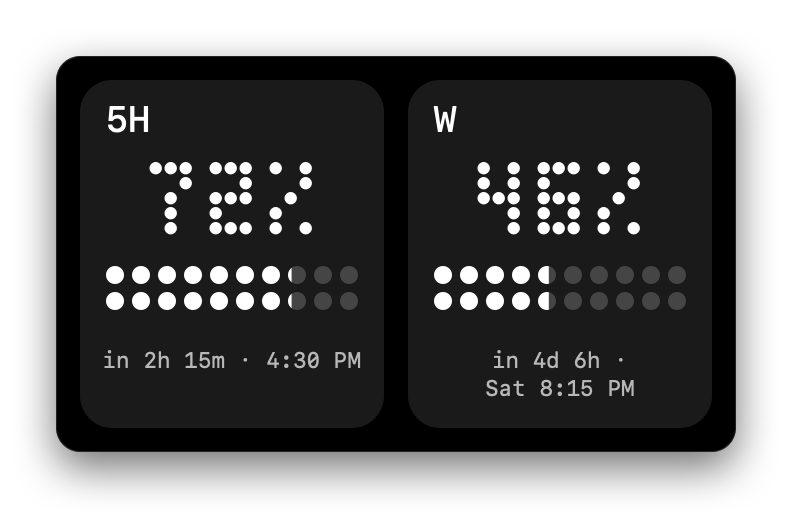
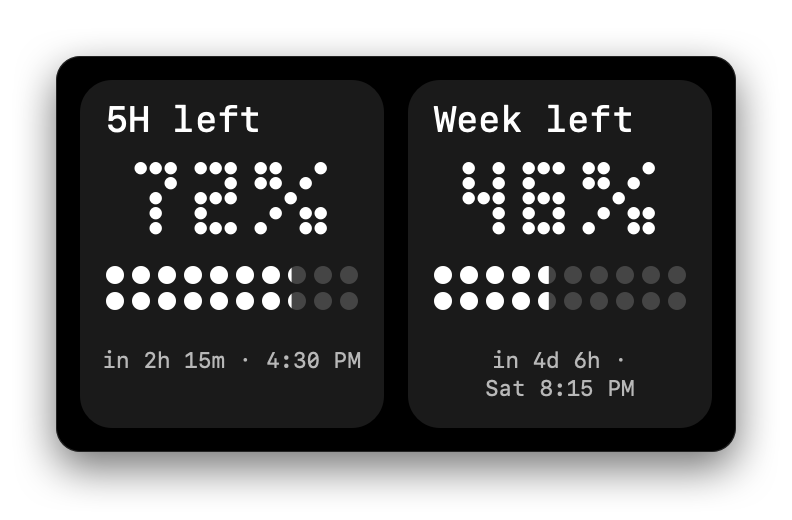
Release Limitwick 2.1.7: "left" labels, Capsules date plates, Dot Matrix percent sign
Classic, Industrial, Dot Matrix, Paper, Capsules and Terminal now say the number is what is left; periods are named 5H and Week. Capsules draw the date and percentage on plates in the track color so no letter changes color mid-glyph. Dot Matrix has its own percent sign. Industrial's weekly fill reaches 3:1 against the track in the light theme.

diff --git a/Sources/Themes.swift b/Sources/Themes.swift
@@ -81,6 +81,26 @@ class ThemeView: NSView {
     func percent(_ value: Double?) -> String { value.map { "\(Int($0.rounded()))%" } ?? "—" }
     func fraction(_ value: Double?) -> CGFloat { CGFloat(max(0, min(1, (value ?? 0) / 100))) }
     func background() { fill(bounds, palette.background) }
+    func measure(_ value: String, width: CGFloat, font: NSFont, wrap: Bool = false) -> NSSize {
+        let style = NSMutableParagraphStyle(); style.lineBreakMode = wrap ? .byWordWrapping : .byTruncatingTail
+        let size = (value as NSString).boundingRect(with: NSSize(width: width, height: 10000), options: [.usesLineFragmentOrigin, .usesFontLeading], attributes: [.font: font, .paragraphStyle: style]).size
+        return NSSize(width: ceil(size.width), height: ceil(size.height))
+    }
+    // Capsules draw text over a fill that can end anywhere. A plate in the track color keeps every
+    // glyph on one background, so text never changes color in the middle of a letter.
+    func plate(_ box: NSRect, clip: NSRect, clipRadius: CGFloat, radius: CGFloat = 8) {
+        NSGraphicsContext.saveGraphicsState()
+        NSBezierPath(roundedRect: clip, xRadius: clipRadius, yRadius: clipRadius).addClip()
+        fill(box, palette.track, radius: radius)
+        NSGraphicsContext.restoreGraphicsState()
+    }
+    // Quota percentage with a smaller "left" so the number reads as what remains.
+    func percentLeft(_ value: Double?, _ rect: NSRect, size: CGFloat, weight: NSFont.Weight, color: NSColor, secondary: NSColor) {
+        let style = NSMutableParagraphStyle(); style.alignment = .center
+        let result = NSMutableAttributedString(string: percent(value), attributes: [.font: NSFont.systemFont(ofSize: size, weight: weight), .foregroundColor: color, .paragraphStyle: style])
+        if value != nil { result.append(NSAttributedString(string: " left", attributes: [.font: NSFont.systemFont(ofSize: (size / 2).rounded(), weight: .regular), .foregroundColor: secondary, .paragraphStyle: style])) }
+        result.draw(in: rect)
+    }
     func resetHeight(_ value: String, width: CGFloat, font: NSFont) -> CGFloat {
         let style = NSMutableParagraphStyle(); style.lineBreakMode = .byWordWrapping
         return ceil((value as NSString).boundingRect(with: NSSize(width: width, height: 10000), options: [.usesLineFragmentOrigin, .usesFontLeading], attributes: [.font: font, .paragraphStyle: style]).height) + 2
@@ -104,12 +124,12 @@ class ThemeView: NSView {
 final class IndustrialThemeView: ThemeView {
     var extraReset: CGFloat { max(0, max(resetHeight("RST  " + data.fiveReset, width: 136, font: .monospacedSystemFont(ofSize: 11, weight: .regular)), resetHeight("RST  " + data.weekReset, width: 136, font: .monospacedSystemFont(ofSize: 11, weight: .regular))) - 28) }
     override var preferredContentHeight: CGFloat { 184 + extraReset }
-    override var palette: ThemePalette { dark ? ThemePalette(background: .init(white: 0.08, alpha: 1), surface: .init(white: 0.10, alpha: 1), text: .init(white: 0.92, alpha: 1), secondary: .init(white: 0.72, alpha: 1), track: .init(white: 0.25, alpha: 1), accent: .init(white: 0.72, alpha: 1), second: .init(calibratedRed: 0.47, green: 0.64, blue: 0.82, alpha: 1)) : ThemePalette(background: .init(calibratedRed: 0.93, green: 0.93, blue: 0.90, alpha: 1), surface: .init(white: 0.95, alpha: 1), text: .init(white: 0.13, alpha: 1), secondary: .init(white: 0.32, alpha: 1), track: .init(white: 0.72, alpha: 1), accent: .init(white: 0.25, alpha: 1), second: .init(calibratedRed: 0.20, green: 0.38, blue: 0.56, alpha: 1)) }
+    override var palette: ThemePalette { dark ? ThemePalette(background: .init(white: 0.08, alpha: 1), surface: .init(white: 0.10, alpha: 1), text: .init(white: 0.92, alpha: 1), secondary: .init(white: 0.72, alpha: 1), track: .init(white: 0.25, alpha: 1), accent: .init(white: 0.72, alpha: 1), second: .init(calibratedRed: 0.47, green: 0.64, blue: 0.82, alpha: 1)) : ThemePalette(background: .init(calibratedRed: 0.93, green: 0.93, blue: 0.90, alpha: 1), surface: .init(white: 0.95, alpha: 1), text: .init(white: 0.13, alpha: 1), secondary: .init(white: 0.32, alpha: 1), track: .init(white: 0.72, alpha: 1), accent: .init(white: 0.25, alpha: 1), second: .init(calibratedRed: 0.14, green: 0.29, blue: 0.45, alpha: 1)) }
     override func draw(_ dirtyRect: NSRect) {
         background(); let p = palette; let mono = NSFont.monospacedSystemFont(ofSize: 10, weight: .regular)
         for (i, value, reset) in [(0, data.fiveHour, data.fiveReset), (1, data.weekly, data.weekReset)] {
             let x = CGFloat(12 + i * 164); let w: CGFloat = 152
-            text(i == 0 ? "5H / LIMIT" : "WEEK / LIMIT", NSRect(x: x+8, y: 17, width: w-16, height: 16), size: 10, color: p.text, font: mono)
+            text(i == 0 ? "5H / LEFT" : "WEEK / LEFT", NSRect(x: x+8, y: 17, width: w-16, height: 16), size: 10, color: p.text, font: mono)
             text(percent(value), NSRect(x: x+6, y: 44, width: w-12, height: 57), size: 44, color: p.text, font: .systemFont(ofSize: 44, weight: .regular))
             for n in 0...10 { let xx = x+8+CGFloat(n)*13.5; line(NSPoint(x: xx, y: 110), NSPoint(x: xx, y: n % 5 == 0 ? 119 : 116), p.secondary) }
             bar(NSRect(x: x+8, y: 123, width: 135, height: 13), value: value, color: i == 0 ? p.accent : p.second)
@@ -124,7 +144,9 @@ final class DotThemeView: ThemeView {
     override var preferredContentHeight: CGFloat { 186 + extraReset }
     override var palette: ThemePalette { dark ? ThemePalette(background: .black, surface: .init(white: 0.10, alpha: 1), text: .white, secondary: .init(white: 0.72, alpha: 1), track: .init(white: 0.27, alpha: 1), accent: .white, second: .white) : ThemePalette(background: .init(white: 0.92, alpha: 1), surface: .white, text: .black, secondary: .init(white: 0.34, alpha: 1), track: .init(white: 0.81, alpha: 1), accent: .black, second: .black) }
     // Three-by-five dot glyphs are rendered locally; no external font is needed.
-    let glyphs: [Character: [String]] = ["0":["111","101","101","101","111"],"1":["010","110","010","010","111"],"2":["111","001","111","100","111"],"3":["111","001","111","001","111"],"4":["101","101","111","001","001"],"5":["111","100","111","001","111"],"6":["111","100","111","101","111"],"7":["111","001","010","010","010"],"8":["111","101","111","101","111"],"9":["111","101","111","001","111"],"%":["101","001","010","100","101"],"—":["000","000","111","000","000"]]
+    let glyphs: [Character: [String]] = ["0":["111","101","101","101","111"],"1":["010","110","010","010","111"],"2":["111","001","111","100","111"],"3":["111","001","111","001","111"],"4":["101","101","111","001","001"],"5":["111","100","111","001","111"],"6":["111","100","111","101","111"],"7":["111","001","010","010","010"],"8":["111","101","111","101","111"],"9":["111","101","111","001","111"],"%":["11001","11010","00100","01011","10011"],"—":["000","000","111","000","000"]]
+    // Glyphs differ in width ("%" is five columns: two dots, a diagonal, two dots), so advance per glyph.
+    func dotsWidth(_ value: String, step: CGFloat) -> CGFloat { value.reduce(0) { $0 + CGFloat((glyphs[$1]?[0].count ?? 0) + 1) } * step - step }
     override func draw(_ dirtyRect: NSRect) {
         background(); let p = palette
         NSGraphicsContext.saveGraphicsState()
@@ -132,10 +154,10 @@ final class DotThemeView: ThemeView {
         defer { NSGraphicsContext.restoreGraphicsState() }
         for (i, value, reset) in [(0, data.fiveHour, data.fiveReset), (1, data.weekly, data.weekReset)] {
             let x = CGFloat(12 + i*164); fill(NSRect(x: x, y: 10, width: 152, height: 174 + extraReset), p.surface, radius: 16)
-            text(i == 0 ? "5H" : "W", NSRect(x: x+13, y: 19, width: 120, height: 23), size: 18, color: p.text, font: .monospacedSystemFont(ofSize: 18, weight: .medium))
-            let s = percent(value); let step: CGFloat = 7.5; let width = CGFloat(s.count) * step * 4 - step
-            var gx = x + (152-width)/2
-            for character in s { if let rows = glyphs[character] { for (row, bits) in rows.enumerated() { for (col, bit) in bits.enumerated() where bit == "1" { fill(NSRect(x: gx+CGFloat(col)*step, y: 51+CGFloat(row)*step, width: 6.2, height: 6.2), p.text, radius: 3.1) } } }; gx += step*4 }
+            text(i == 0 ? "5H left" : "Week left", NSRect(x: x+13, y: 19, width: 126, height: 23), size: 18, color: p.text, font: .monospacedSystemFont(ofSize: 18, weight: .medium))
+            let s = percent(value); let step: CGFloat = 7.5
+            var gx = x + (152-dotsWidth(s, step: step))/2
+            for character in s { if let rows = glyphs[character] { for (row, bits) in rows.enumerated() { for (col, bit) in bits.enumerated() where bit == "1" { fill(NSRect(x: gx+CGFloat(col)*step, y: 51+CGFloat(row)*step, width: 6.2, height: 6.2), p.text, radius: 3.1) } }; gx += CGFloat(rows[0].count + 1)*step } }
             for column in 0..<10 {
                 for row in 0..<2 {
                     let dot = NSRect(x: x+13+CGFloat(column)*13, y: 103+CGFloat(row)*13, width: 9, height: 9)
@@ -163,7 +185,7 @@ final class PaperThemeView: ThemeView {
         background(); let p = palette
         for (i, value, reset) in [(0, data.fiveHour, data.fiveReset), (1, data.weekly, data.weekReset)] {
             let y = CGFloat(14 + i*86) + (i == 1 ? extra(data.fiveReset) : 0)
-            text(i == 0 ? "5-Hour Quota" : "Weekly Quota", NSRect(x: 16, y: y+6, width: 190, height: 22), size: 15, color: p.text, font: .monospacedSystemFont(ofSize: 15, weight: .regular))
+            text(i == 0 ? "5H quota left" : "Week quota left", NSRect(x: 16, y: y+6, width: 190, height: 22), size: 15, color: p.text, font: .monospacedSystemFont(ofSize: 15, weight: .regular))
             text(percent(value), NSRect(x: 208, y: y-2, width: 116, height: 34), size: 28, color: p.text, font: NSFont(name: "Times New Roman", size: 28) ?? .systemFont(ofSize: 28), alignment: .right)
             bar(NSRect(x: 16, y: y+42, width: 308, height: 3), value: value, color: p.accent, radius: 1.5)
             text(reset, NSRect(x: 16, y: y+52, width: 308, height: 20 + extra(reset)), size: 11, color: p.secondary, wrap: true)
@@ -176,7 +198,7 @@ final class CapsuleThemeView: ThemeView {
     func extra(_ reset: String) -> CGFloat { max(0, resetHeight(reset, width: 125, font: .systemFont(ofSize: 11)) - 48) }
     override var preferredContentHeight: CGFloat { 167 + extra(data.fiveReset) + extra(data.weekReset) }
     override var outerInset: CGFloat { 14 }
-    // A deeper red keeps white dates on the warning fill above 4.5:1.
+    // Deeper than systemRed, so the large warning fill stays calm next to the light track.
     override var warningColor: NSColor { .init(calibratedRed: 0.76, green: 0.15, blue: 0.13, alpha: 1) }
     override var palette: ThemePalette { dark ? ThemePalette(background: .init(calibratedRed: 0.07, green: 0.09, blue: 0.11, alpha: 1), surface: .init(white: 0.1, alpha: 1), text: .white, secondary: .init(white: 0.80, alpha: 1), track: .init(calibratedRed: 0.13, green: 0.16, blue: 0.21, alpha: 1), accent: .init(calibratedRed: 0.25, green: 0.34, blue: 0.49, alpha: 1), second: .init(calibratedRed: 0.19, green: 0.46, blue: 0.44, alpha: 1)) : ThemePalette(background: .init(calibratedRed: 0.94, green: 0.95, blue: 0.97, alpha: 1), surface: .white, text: .init(calibratedRed: 0.13, green: 0.17, blue: 0.23, alpha: 1), secondary: .init(white: 0.31, alpha: 1), track: .init(calibratedRed: 0.85, green: 0.87, blue: 0.90, alpha: 1), accent: .init(calibratedRed: 0.31, green: 0.37, blue: 0.48, alpha: 1), second: .init(calibratedRed: 0.16, green: 0.42, blue: 0.40, alpha: 1)) }
     override func draw(_ dirtyRect: NSRect) {
@@ -194,24 +216,24 @@ final class CapsuleThemeView: ThemeView {
                 NSGraphicsContext.restoreGraphicsState()
             }
             fill(NSRect(x: 21, y: y+(pillHeight-54)/2, width: 54, height: 54), dark ? .init(white: 0.08, alpha: 1) : .white, radius: 27)
-            let symbol = i == 0 ? "5h" : "W"
+            let symbol = i == 0 ? "5H" : "W"
             let symbolFont = NSFont.systemFont(ofSize: 23, weight: .bold)
             let symbolHeight = (symbol as NSString).size(withAttributes: [.font: symbolFont]).height
             text(symbol, NSRect(x: 21, y: y+(pillHeight-symbolHeight)/2, width: 54, height: symbolHeight+1), size: 23, color: p.text, font: symbolFont, alignment: .center)
+            // The date and the percentage sit on plates in the track color, so the fill never runs under a glyph.
             let dateFont = NSFont.systemFont(ofSize: 11)
-            let paragraph = NSMutableParagraphStyle(); paragraph.lineBreakMode = .byWordWrapping
-            let dateHeight = ceil((reset as NSString).boundingRect(with: NSSize(width: 125, height: 10000), options: [.usesLineFragmentOrigin, .usesFontLeading], attributes: [.font: dateFont, .paragraphStyle: paragraph]).height)
-            let dateRect = NSRect(x: 83, y: y+(pillHeight-dateHeight)/2, width: 125, height: dateHeight+1)
+            let dateSize = measure(reset, width: 125, font: dateFont, wrap: true)
+            let dateRect = NSRect(x: 87, y: y+(pillHeight-dateSize.height)/2, width: 125, height: dateSize.height+1)
+            plate(NSRect(x: 81, y: dateRect.minY-3, width: dateSize.width+12, height: dateSize.height+6), clip: rect, clipRadius: 34)
             text(reset, dateRect, size: 11, color: p.text, font: dateFont, wrap: true)
-            if !dark, !data.stale, value != nil, fraction(value) > 0 {
-                // Redraw only the part over the filled capsule in a light color.
-                NSGraphicsContext.saveGraphicsState()
-                NSBezierPath(roundedRect: rect, xRadius: 34, yRadius: 34).addClip()
-                NSBezierPath(rect: progress).addClip()
-                text(reset, dateRect, size: 11, color: .white, font: dateFont, wrap: true)
-                NSGraphicsContext.restoreGraphicsState()
-            }
-            text(percent(value), NSRect(x: 211, y: y+(pillHeight-36)/2, width: 103, height: 36), size: 23, color: p.text, font: .systemFont(ofSize: 23, weight: .bold), alignment: .right)
+            let percentFont = NSFont.systemFont(ofSize: 23, weight: .bold), leftFont = NSFont.systemFont(ofSize: 11)
+            let percentSize = measure(percent(value), width: 100, font: percentFont), leftSize = measure("left", width: 100, font: leftFont)
+            let showLeft = value != nil
+            let blockWidth = max(percentSize.width, showLeft ? leftSize.width : 0), blockHeight = percentSize.height + (showLeft ? leftSize.height - 4 : 0)
+            let blockTop = y + (pillHeight-blockHeight)/2
+            plate(NSRect(x: 308-blockWidth-8, y: blockTop-3, width: blockWidth+16, height: blockHeight+6), clip: rect, clipRadius: 34, radius: 10)
+            text(percent(value), NSRect(x: 308-blockWidth, y: blockTop, width: blockWidth, height: percentSize.height), size: 23, color: p.text, font: percentFont, alignment: .right)
+            if showLeft { text("left", NSRect(x: 308-blockWidth, y: blockTop+percentSize.height-4, width: blockWidth, height: leftSize.height), size: 11, color: p.secondary, font: leftFont, alignment: .right) }
         }
     }
 }
@@ -235,7 +257,7 @@ final class TerminalThemeView: ThemeView {
         let bold = NSFont.monospacedSystemFont(ofSize: 11, weight: .semibold)
         // A console readout: prompt, fixed-width rows and text-based progress bars.
         text(">", NSRect(x: 17, y: 14, width: 12, height: 18), size: 11, color: p.accent, font: bold)
-        text("\(data.providerName?.uppercased() ?? "CODEX") / LIMITS", NSRect(x: 30, y: 14, width: 270, height: 18), size: 11, color: p.text, font: bold)
+        text("\(data.providerName?.uppercased() ?? "CODEX") / LIMITS LEFT", NSRect(x: 30, y: 14, width: 270, height: 18), size: 11, color: p.text, font: bold)
         line(NSPoint(x: 17, y: 36), NSPoint(x: 323, y: 36), p.track)
         for (i, value, reset) in [(0, data.fiveHour, data.fiveReset), (1, data.weekly, data.weekReset)] {
             let y = CGFloat(48 + i*59) + (i == 1 ? extra(data.fiveReset) : 0)

diff --git a/Sources/WidgetTheme.swift b/Sources/WidgetTheme.swift
@@ -53,8 +53,8 @@ final class WidgetThemeView: ThemeView {
                 else { path.appendArc(withCenter: center, radius: radius, startAngle: 90, endAngle: 90 + 360 * fraction(value), clockwise: false) }
                 quotaColor(value, normal: p.accent).setStroke(); path.stroke()
             }
-            text(i == 0 ? "5" : "W", NSRect(x: x+46, y: 34, width: 60, height: 20), size: 16, color: p.secondary, font: .systemFont(ofSize: 16, weight: .medium), alignment: .center)
-            text(percent(value), NSRect(x: x+10, y: 75, width: 132, height: 30), size: 24, color: p.text, font: .systemFont(ofSize: 24, weight: .semibold), alignment: .center)
+            text(i == 0 ? "5H" : "W", NSRect(x: x+46, y: 34, width: 60, height: 20), size: 16, color: p.secondary, font: .systemFont(ofSize: 16, weight: .medium), alignment: .center)
+            percentLeft(value, NSRect(x: x+10, y: 75, width: 132, height: 30), size: 24, weight: .semibold, color: p.text, secondary: p.secondary)
             reset(date, NSRect(x: x+8, y: 110, width: 136, height: 32), color: p.secondary, alignment: .center)
         }
     }
@@ -62,7 +62,7 @@ final class WidgetThemeView: ThemeView {
         let p = palette, mono = NSFont.monospacedSystemFont(ofSize: 10, weight: .regular)
         for (i, value, date) in items {
             let x = CGFloat(12 + i*164)
-            text(i == 0 ? "5H / LIMIT" : "WEEK / LIMIT", NSRect(x: x+8, y: 12, width: 136, height: 15), size: 10, color: p.text, font: mono)
+            text(i == 0 ? "5H / LEFT" : "WEEK / LEFT", NSRect(x: x+8, y: 12, width: 136, height: 15), size: 10, color: p.text, font: mono)
             text(percent(value), NSRect(x: x+6, y: 31, width: 140, height: 49), size: 39, color: p.text)
             for n in 0...10 { let xx = x+8+CGFloat(n)*13.5; line(NSPoint(x: xx, y: 87), NSPoint(x: xx, y: n % 5 == 0 ? 94 : 92), p.secondary) }
             bar(NSRect(x: x+8, y: 99, width: 135, height: 10), value: value, color: i == 0 ? p.accent : p.second)
@@ -71,16 +71,18 @@ final class WidgetThemeView: ThemeView {
         line(NSPoint(x: 170, y: 10), NSPoint(x: 170, y: 149), p.track)
     }
     private func drawDots() {
-        let p = palette, glyphs = DotThemeView().glyphs
+        let p = palette, dotView = DotThemeView(), glyphs = dotView.glyphs
         for (i, value, date) in items {
             let x = CGFloat(12 + i*164)
             fill(NSRect(x: x, y: 10, width: 152, height: 148), p.surface, radius: 16)
-            text(i == 0 ? "5H" : "W", NSRect(x: x+13, y: 17, width: 120, height: 21), size: 16, color: p.text, font: .monospacedSystemFont(ofSize: 16, weight: .medium))
+            text(i == 0 ? "5H left" : "Week left", NSRect(x: x+13, y: 17, width: 126, height: 21), size: 16, color: p.text, font: .monospacedSystemFont(ofSize: 16, weight: .medium))
             let s = percent(value), step: CGFloat = 6
-            var gx = x + (152 - (CGFloat(s.count)*step*4-step))/2
+            var gx = x + (152 - dotView.dotsWidth(s, step: step))/2
             for character in s {
-                if let rows = glyphs[character] { for (row, bits) in rows.enumerated() { for (col, bit) in bits.enumerated() where bit == "1" { fill(NSRect(x: gx+CGFloat(col)*step, y: 42+CGFloat(row)*step, width: 5, height: 5), p.text, radius: 2.5) } } }
-                gx += step*4
+                if let rows = glyphs[character] {
+                    for (row, bits) in rows.enumerated() { for (col, bit) in bits.enumerated() where bit == "1" { fill(NSRect(x: gx+CGFloat(col)*step, y: 42+CGFloat(row)*step, width: 5, height: 5), p.text, radius: 2.5) } }
+                    gx += CGFloat(rows[0].count + 1)*step
+                }
             }
             for column in 0..<10 { for row in 0..<2 {
                 let dot = NSRect(x: x+13+CGFloat(column)*13, y: 82+CGFloat(row)*12, width: 8, height: 8)
@@ -95,7 +97,7 @@ final class WidgetThemeView: ThemeView {
         let p = palette
         for (i, value, date) in items {
             let y = CGFloat(12 + i*75)
-            text(i == 0 ? "5-Hour Quota" : "Weekly Quota", NSRect(x: 16, y: y+3, width: 190, height: 20), size: 14, color: p.text, font: .monospacedSystemFont(ofSize: 14, weight: .regular))
+            text(i == 0 ? "5H quota left" : "Week quota left", NSRect(x: 16, y: y+3, width: 190, height: 20), size: 14, color: p.text, font: .monospacedSystemFont(ofSize: 14, weight: .regular))
             text(percent(value), NSRect(x: 208, y: y-3, width: 116, height: 32), size: 26, color: p.text, font: NSFont(name: "Times New Roman", size: 26), alignment: .right)
             bar(NSRect(x: 16, y: y+32, width: 308, height: 3), value: value, color: p.accent, radius: 1.5)
             reset(date, NSRect(x: 16, y: y+42, width: 308, height: 25), color: p.secondary)
@@ -110,17 +112,26 @@ final class WidgetThemeView: ThemeView {
             let progress = NSRect(x: 80, y: y, width: 246*fraction(value), height: 64)
             if value != nil && progress.width > 0 { NSGraphicsContext.saveGraphicsState(); NSBezierPath(roundedRect: rect, xRadius: 32, yRadius: 32).addClip(); fill(progress, quotaColor(value, normal: i == 0 ? p.accent : p.second)); NSGraphicsContext.restoreGraphicsState() }
             fill(NSRect(x: 21, y: y+7, width: 50, height: 50), dark ? .init(white: 0.08, alpha: 1) : .white, radius: 25)
-            text(i == 0 ? "5h" : "W", NSRect(x: 21, y: y+18, width: 50, height: 30), size: 22, color: p.text, font: .systemFont(ofSize: 22, weight: .bold), alignment: .center)
-            let dateRect = NSRect(x: 83, y: y+17, width: 125, height: 32)
+            text(i == 0 ? "5H" : "W", NSRect(x: 21, y: y+18, width: 50, height: 30), size: 22, color: p.text, font: .systemFont(ofSize: 22, weight: .bold), alignment: .center)
+            // Plates in the track color keep the date and percentage on one background wherever the fill ends.
+            let dateFont = NSFont.systemFont(ofSize: 9), dateSize = measure(date, width: 125, font: dateFont, wrap: true)
+            let dateRect = NSRect(x: 87, y: y+(64-dateSize.height)/2, width: 125, height: dateSize.height+1)
+            plate(NSRect(x: 81, y: dateRect.minY-3, width: dateSize.width+12, height: dateSize.height+6), clip: rect, clipRadius: 32)
             reset(date, dateRect, color: p.text)
-            if !dark, !data.stale, value != nil, fraction(value) > 0 { NSGraphicsContext.saveGraphicsState(); NSBezierPath(roundedRect: rect, xRadius: 32, yRadius: 32).addClip(); NSBezierPath(rect: progress).addClip(); reset(date, dateRect, color: .white); NSGraphicsContext.restoreGraphicsState() }
-            text(percent(value), NSRect(x: 211, y: y+18, width: 103, height: 30), size: 22, color: p.text, font: .systemFont(ofSize: 22, weight: .bold), alignment: .right)
+            let percentFont = NSFont.systemFont(ofSize: 22, weight: .bold), leftFont = NSFont.systemFont(ofSize: 10)
+            let percentSize = measure(percent(value), width: 100, font: percentFont), leftSize = measure("left", width: 100, font: leftFont)
+            let showLeft = value != nil
+            let blockWidth = max(percentSize.width, showLeft ? leftSize.width : 0), blockHeight = percentSize.height + (showLeft ? leftSize.height - 4 : 0)
+            let blockTop = y + (64-blockHeight)/2
+            plate(NSRect(x: 308-blockWidth-8, y: blockTop-3, width: blockWidth+16, height: blockHeight+6), clip: rect, clipRadius: 32, radius: 10)
+            text(percent(value), NSRect(x: 308-blockWidth, y: blockTop, width: blockWidth, height: percentSize.height), size: 22, color: p.text, font: percentFont, alignment: .right)
+            if showLeft { text("left", NSRect(x: 308-blockWidth, y: blockTop+percentSize.height-4, width: blockWidth, height: leftSize.height), size: 10, color: p.secondary, font: leftFont, alignment: .right) }
         }
     }
     private func drawTerminal() {
         let p = palette, mono = NSFont.monospacedSystemFont(ofSize: 10, weight: .regular), bold = NSFont.monospacedSystemFont(ofSize: 10, weight: .semibold)
         text(">", NSRect(x: 17, y: 10, width: 12, height: 16), size: 10, color: p.accent, font: bold)
-        text("\(data.providerName?.uppercased() ?? "CODEX") / LIMITS", NSRect(x: 30, y: 10, width: 270, height: 16), size: 10, color: p.text, font: bold)
+        text("\(data.providerName?.uppercased() ?? "CODEX") / LIMITS LEFT", NSRect(x: 30, y: 10, width: 270, height: 16), size: 10, color: p.text, font: bold)
         line(NSPoint(x: 17, y: 29), NSPoint(x: 323, y: 29), p.track)
         for (i, value, date) in items {
             let y = CGFloat(38 + i*57)

diff --git a/Sources/InterfaceViews.swift b/Sources/InterfaceViews.swift
@@ -28,13 +28,14 @@ final class QuotaTile: NSView {
     let symbolLabel = NSTextField(labelWithString: "")
     let valueLabel = NSTextField(labelWithString: "—")
     let resetLabel = NSTextField(wrappingLabelWithString: "Reset unavailable")
+    static let tileSecondary = NSColor(name: nil) { $0.bestMatch(from: [.darkAqua, .aqua]) == .darkAqua ? .secondaryLabelColor : NSColor(white: 0.40, alpha: 1) }
 
     init(symbol: String) {
         self.symbol = symbol
         super.init(frame: NSRect(x: 0, y: 0, width: 152, height: 180))
         ring.frame = NSRect(x: 31, y: 77, width: 90, height: 90)
         // The percentage is the reading; the period letter inside the ring only labels it.
-        symbolLabel.stringValue = symbol
+        symbolLabel.stringValue = symbol == "5" ? "5H" : symbol
         symbolLabel.font = .systemFont(ofSize: 22, weight: .medium)
         symbolLabel.textColor = .secondaryLabelColor
         symbolLabel.alignment = .center
@@ -44,7 +45,7 @@ final class QuotaTile: NSView {
         valueLabel.frame = NSRect(x: 8, y: 43, width: 136, height: 33)
         resetLabel.font = .systemFont(ofSize: 11)
         // The system secondary gray is 3.9:1 on the light tile; a darker gray keeps 4.5:1.
-        resetLabel.textColor = NSColor(name: nil) { $0.bestMatch(from: [.darkAqua, .aqua]) == .darkAqua ? .secondaryLabelColor : NSColor(white: 0.40, alpha: 1) }
+        resetLabel.textColor = QuotaTile.tileSecondary
         resetLabel.alignment = .center
         resetLabel.maximumNumberOfLines = 0
         resetLabel.frame = NSRect(x: 6, y: 8, width: 140, height: 34)
@@ -71,10 +72,15 @@ final class QuotaTile: NSView {
     func update(_ window: QuotaWindow?, reset: String, stale: Bool = false) {
         ring.value = window?.remaining
         ring.stale = stale
-        valueLabel.stringValue = window.map { "\(Int($0.remaining.rounded()))%" } ?? "—"
+        let percent = window.map { "\(Int($0.remaining.rounded()))%" } ?? "—"
+        // The smaller "left" makes the number read as what remains, not what was used.
+        let style = NSMutableParagraphStyle(); style.alignment = .center
+        let shown = NSMutableAttributedString(string: percent, attributes: [.font: valueLabel.font!, .foregroundColor: NSColor.labelColor, .paragraphStyle: style])
+        if window != nil { shown.append(NSAttributedString(string: " left", attributes: [.font: NSFont.systemFont(ofSize: 13), .foregroundColor: QuotaTile.tileSecondary, .paragraphStyle: style])) }
+        valueLabel.attributedStringValue = shown
         resetLabel.stringValue = reset
         let period = symbol == "5" ? "5 hours" : "Week"
-        setAccessibilityLabel("\(period), \(window == nil ? "unavailable" : valueLabel.stringValue + " remaining"), \(reset)")
+        setAccessibilityLabel("\(period), \(window == nil ? "unavailable" : percent + " remaining"), \(reset)")
     }
 }
 
